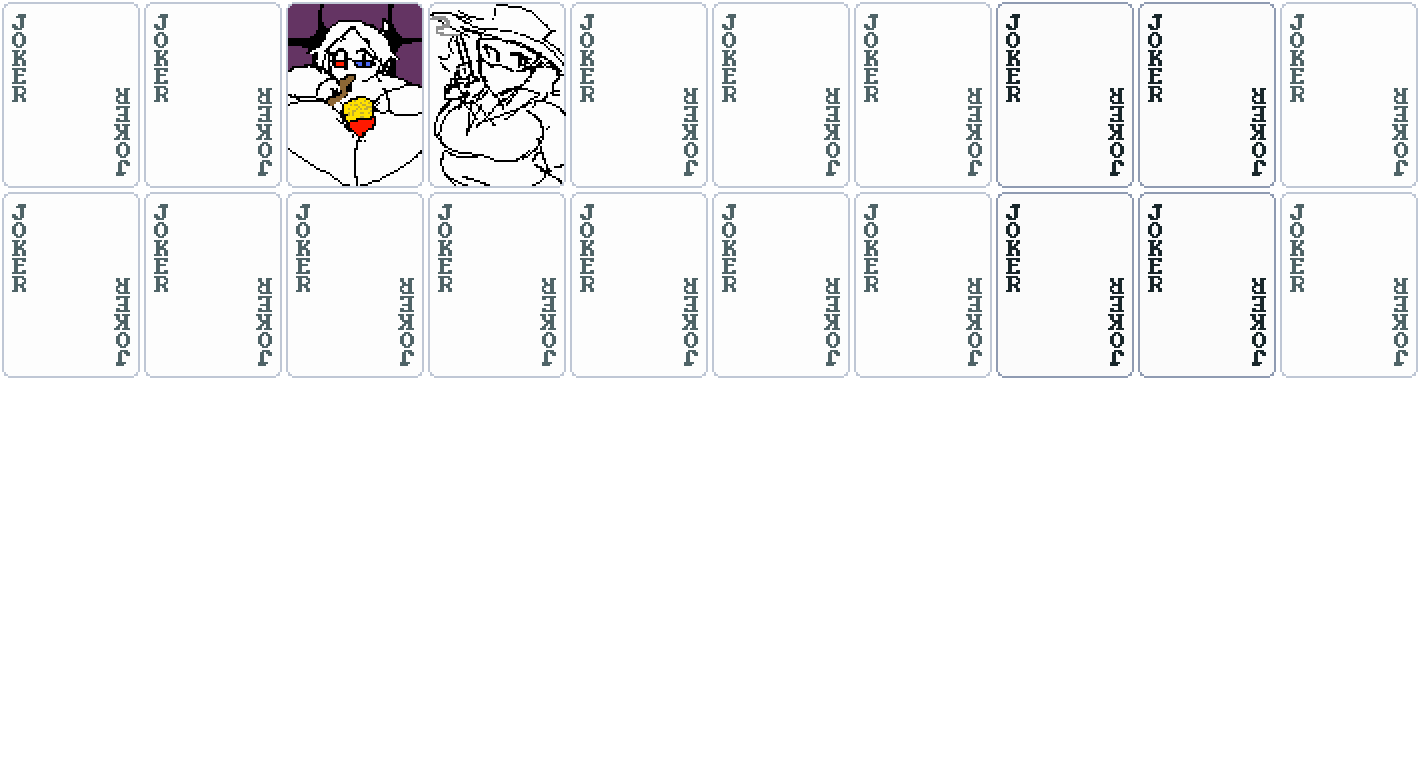
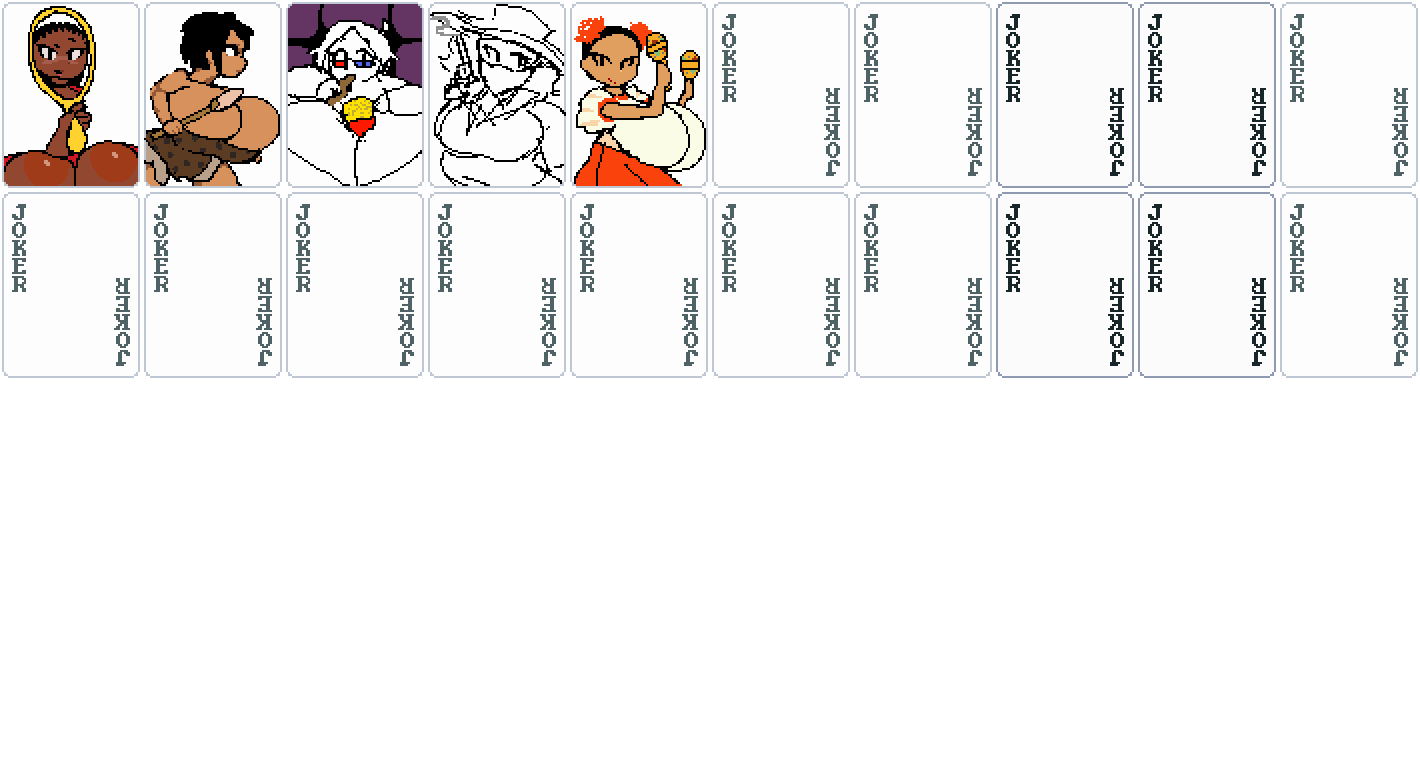
Dancer functionality implemented and tested

Changed region(s): [[0.0, 0.0, 0.2169, 0.2421], [0.4028, 0.0, 0.4958, 0.2421]]

diff --git a/README.md b/README.md
@@ -20,6 +20,3 @@ if context.card and context.card.ability.set == "Joker" then
 **Gourmand**
 When a food joker is sold, +x0.5 Mult.
 (Currently x1.0 Mult)
-
-**Dancer** (Common)
-Scored Queens earn $5
